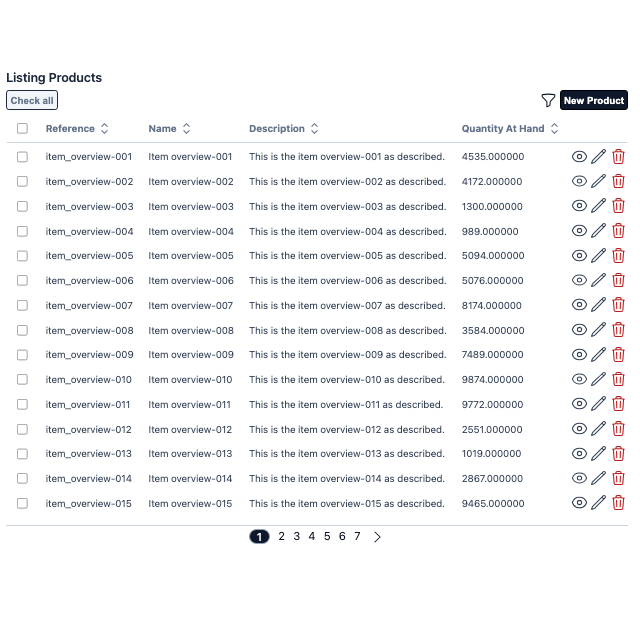
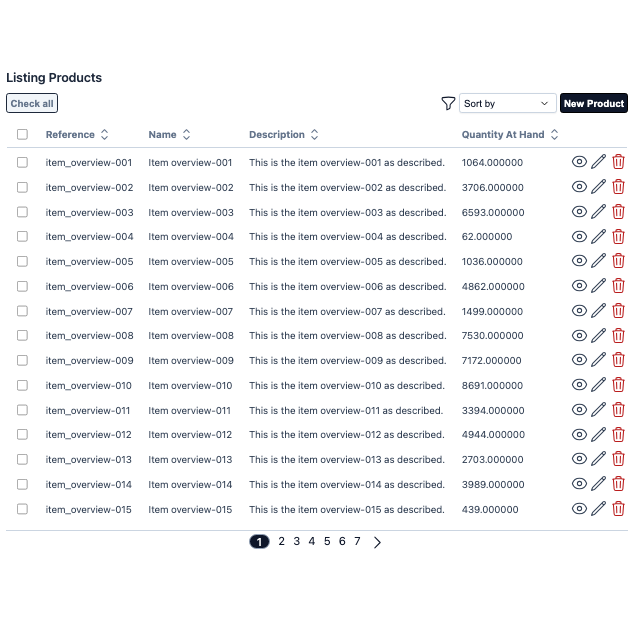
merge - chore: release 0.1.7 (#425)
* chore: release 0.1.7

Claude-Session: https://claude.ai/code/session_016YwepcxdQpSiBsHWGAax1X

* docs: regenerate guide images

Claude-Session: https://claude.ai/code/session_016YwepcxdQpSiBsHWGAax1X

* docs: update publishing date

* test: capture guide images in light mode

Pin prefers-color-scheme to light through CDP in ImageHelper.capture/5, so
the images do not depend on the capturing machine's OS appearance.

Claude-Session: https://claude.ai/code/session_016YwepcxdQpSiBsHWGAax1X

* docs: regenerate guide images in light mode

Claude-Session: https://claude.ai/code/session_016YwepcxdQpSiBsHWGAax1X

---------

Changed region(s): [[0.0, 0.1226, 1.0, 0.8887]]

diff --git a/ROADMAP.md b/ROADMAP.md
@@ -5,11 +5,18 @@ this is a dynamic wishlist that evolves based on community feedback, adoption pa
 
 **Note**: Priorities and implementation order will be determined based on community adoption, feature requests, and identified pain points.
 
-## Current Status: v0.1.6
+## Current Status: v0.1.7
 
-Aurora UIX v0.1.6 adds click-to-sort index headers, predefined field renderers (and renderers by HTML type), live updates across sessions through Phoenix PubSub, an unsaved-changes guard on the form modal, a `contains` filter, and multi-value select support on both backends.
+Aurora UIX v0.1.7 adds a sort control to the mobile card view and a `sort_disabled?` index layout option, fixes invalid CSS id selectors for ids that start with a digit, and removes the `:or_where` and `:select` index options that never reached the query.
 
-**Recent Changes (v0.1.6)**:
+**Recent Changes (v0.1.7)**:
+- Sort control (field select and direction button) in the mobile card view
+- `sort_disabled?` index layout option turns user sorting off
+- Attribute-based id selectors (`uix_id_selector/2`) fix delete actions on ids starting with a digit
+- `:or_where` and `:select` are no longer accepted as index layout options
+- Updated `ash` and `ash_postgres`
+
+**Previous Release (v0.1.6)**:
 - Sortable index column headers
 - Predefined field renderers (`:toggle_switch`, `:color`, `:badge`, `:progress_bar`, `:url`, `:rating`) and a `renderers:` map by HTML type
 - Live updates across sessions through Phoenix PubSub (`Aurora.Uix.Events`)
@@ -18,7 +25,7 @@ Aurora UIX v0.1.6 adds click-to-sort index headers, predefined field renderers (
 - Multi-value selects as checkbox groups; read-only scalar arrays
 - Guide recipe for custom bulk actions on selected rows
 
-**Previous Release (v0.1.5)**:
+**Earlier Release (v0.1.5)**:
 - `has_one` and `many_to_many` association support (both backends)
 - Runtime component override mechanism (`Aurora.Uix.ComponentsResolver`)
 - Per-layout custom field renderers (`index_renderer`, `edit_renderer`, `show_renderer`)

diff --git a/README.md b/README.md
@@ -121,7 +121,7 @@ Add Aurora UIX to your `mix.exs`:
 ```elixir
 def deps do
   [
-    {:aurora_uix, "~> 0.1.6"}
+    {:aurora_uix, "~> 0.1.7"}
   ]
 end
 ```
@@ -224,7 +224,7 @@ Complete documentation is available in the [guides](./guides/overview/overview.m
 - **[Build Your First App](./guides/tutorial/build_your_first_app.md)** — Zero-background tutorial: from nothing installed to a running CRUD app
 - **[Overview](./guides/overview/overview.md)** — Architecture and core concepts
 - **[Getting Started](./guides/introduction/getting_started.md)** — Installation and first CRUD UI
-- **[What's New](./guides/whats_new/0.1.6.md)** — Headline changes of 0.1.6 with upgrade notes and examples; one page is kept per release in `guides/whats_new/`
+- **[What's New](./guides/whats_new/0.1.7.md)** — Headline changes of 0.1.7 with upgrade notes and examples; one page is kept per release in `guides/whats_new/`
 - **[Resource Metadata](./guides/core/resource_metadata.md)** — Field configuration and validation
 - **[Layout System](./guides/core/layouts.md)** — Layout DSL and composition
 - **[LiveView Integration](./guides/core/liveview.md)** — Event handling and business logic

diff --git a/CHANGELOG.md b/CHANGELOG.md
@@ -1,6 +1,12 @@
 # Changelog for Aurora UIX
 
-## [0.1.7]
+## [0.1.7] - 2026-10-12
+
+**Card View Sorting & Safer Dynamic Ids**
+
+This release adds a sort control to the mobile card view and a `sort_disabled?` index option, fixes
+invalid CSS id selectors for ids starting with a digit (e.g. UUIDv7), stops accepting the
+never-working `:or_where` and `:select` index options, and updates Ash and AshPostgres.
 
 ### Fixed
 

diff --git a/guides/core/ash_integration.md b/guides/core/ash_integration.md
@@ -37,7 +37,7 @@ Besides Aurora UIX, you'll need to add Ash dependencies for using it as a backen
 ```elixir
 def deps do
   [
-    {:aurora_uix, "~> 0.1.6"},  # Main framework
+    {:aurora_uix, "~> 0.1.7"},  # Main framework
     {:ash, "~> 3.0"},           # If use Ash as backend
     {:ash_postgres, "~> 2.0"}   # Needed if using postgres as your data layer. Add any other data layer required by your backend
   ]

diff --git a/guides/introduction/getting_started.md b/guides/introduction/getting_started.md
@@ -17,7 +17,7 @@ Add `aurora_uix` to your `mix.exs` dependencies. Make sure your Phoenix project 
 ```elixir
 def deps do
   [
-    {:aurora_uix, "~> 0.1.6"}
+    {:aurora_uix, "~> 0.1.7"}
   ]
 end
 ```
